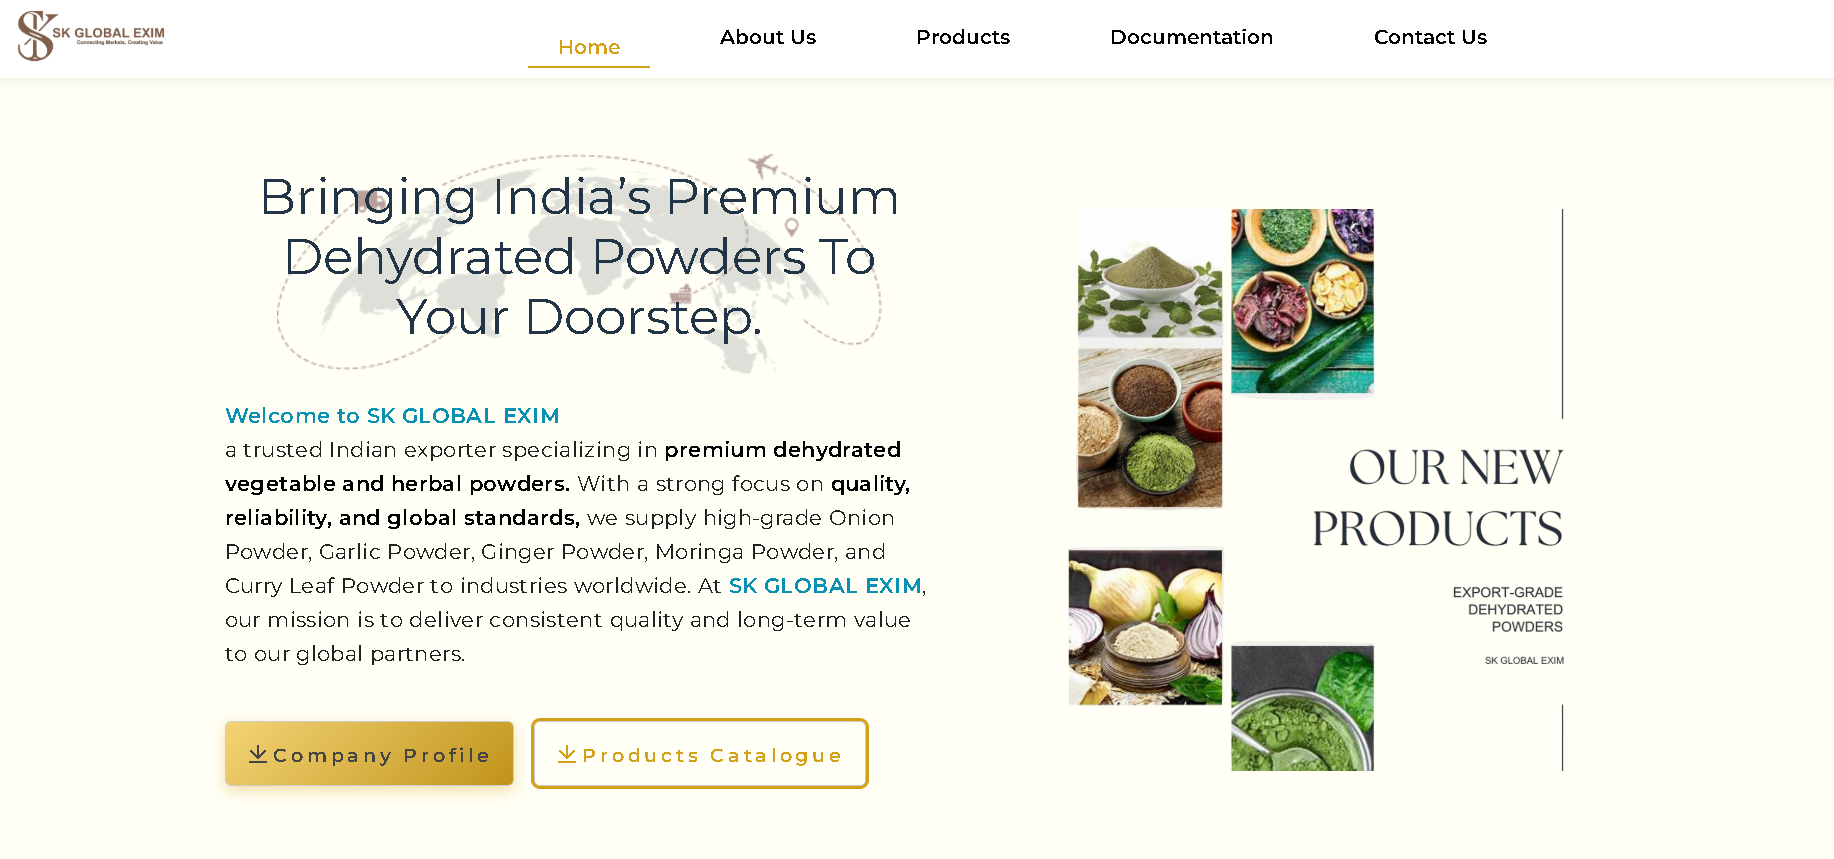
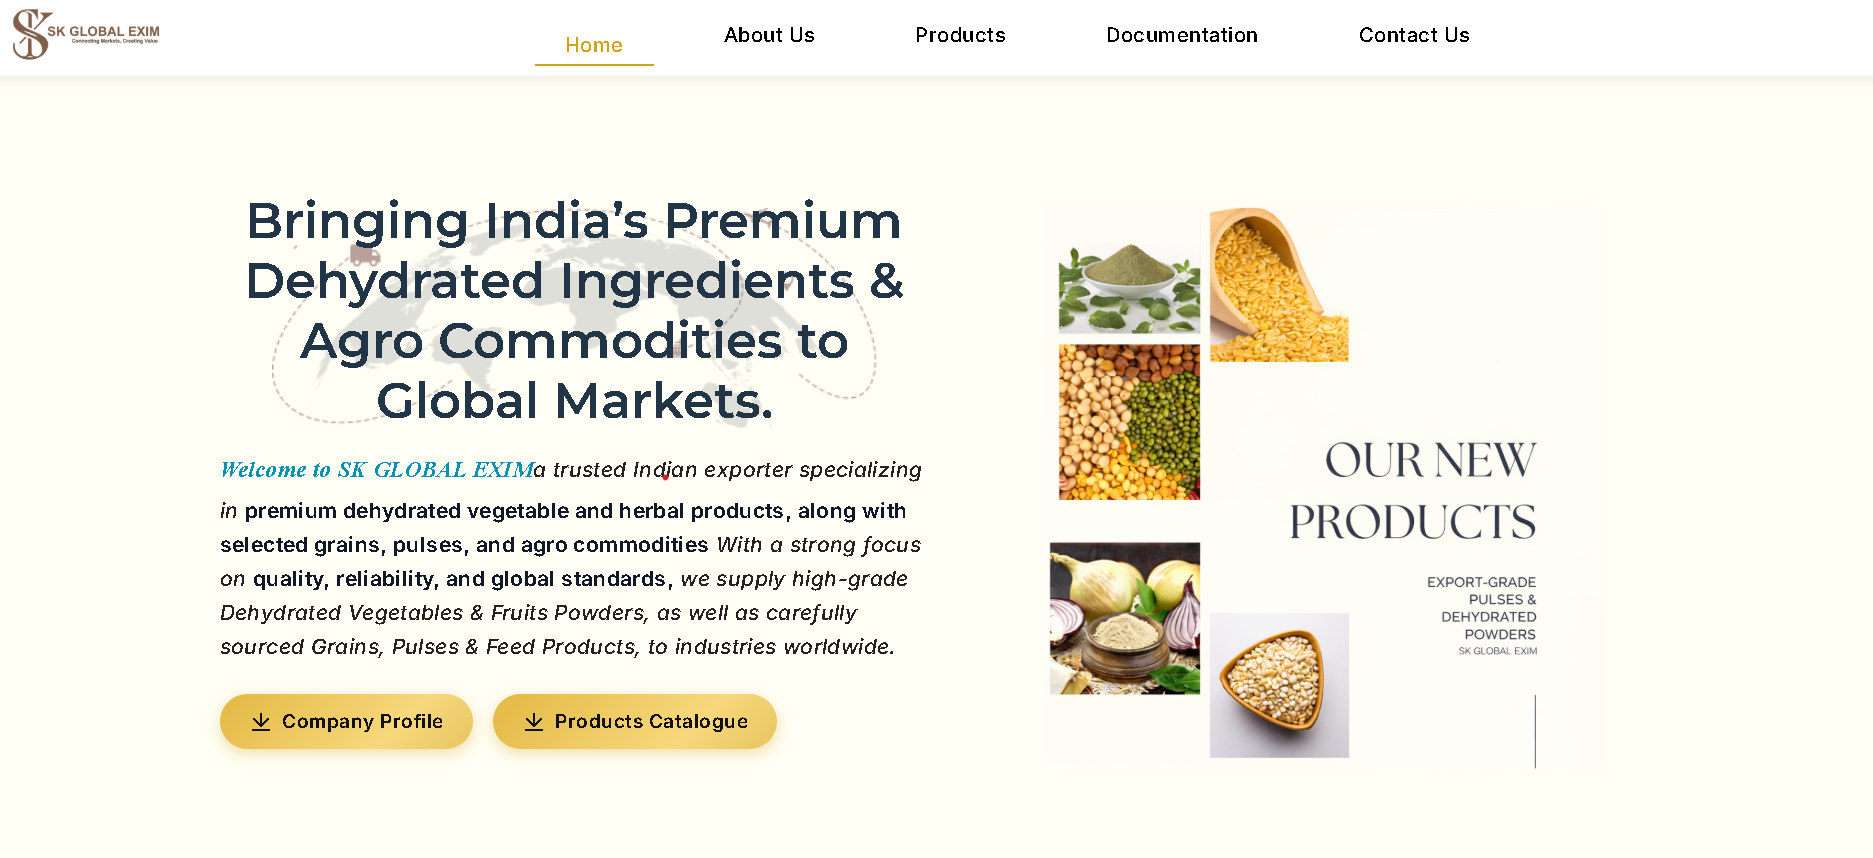
Updates

diff --git a/index.html b/index.html
@@ -26,7 +26,7 @@
       href="https://cdn.jsdelivr.net/npm/remixicon@4.2.0/fonts/remixicon.css"
       rel="stylesheet"
     />
-    <link rel="icon" type="image/png" href="/assets/tablogo-Bg7x_OzJ.ico" />
+    <link rel="icon" type="image/png" href="public/tablogo.png" />
 
     <script
       type="module"
@@ -49,7 +49,7 @@
       property="og:description"
       content="Premium agro products for export: Ginger, Garlic, Onion Powder, Spices & Herbs."
     />
-    <meta property="og:image" content="/ogimage.png" />
+    <meta property="og:image" content="https://www.skglobalexim.com/ogimage.png"/>
     <meta property="og:type" content="website" />
 
     <meta name="author" content="SK GLOBAL EXIM" />
@@ -76,17 +76,14 @@
     <link rel="apple-touch-icon" href="/tablogo.png" />
     <link rel="manifest" href="/site.webmanifest" />
     <link rel="preload" href="/tablogo.png" as="image" />
-    <link rel="manifest" href="/manifest.json" />
 
-   <link rel="canonical" href="https://dattakale21.github.io/SK-GLOBAL-EXIM/" />
-    <meta http-equiv="X-UA-Compatible" content="IE=edge" />
+   <link rel="canonical" href="https://www.skglobalexim.com/" />
+
     <script type="module" crossorigin src="/assets/index-AYJERRsV.js"></script>
     <link rel="stylesheet" crossorigin href="/assets/index-DIYrSS7x.css">
   </head>
   <body>
     <div id="root"></div>
-    <script>
-      window.scrollTo(0, 0);
-    </script>
+  
   </body>
 </html>
